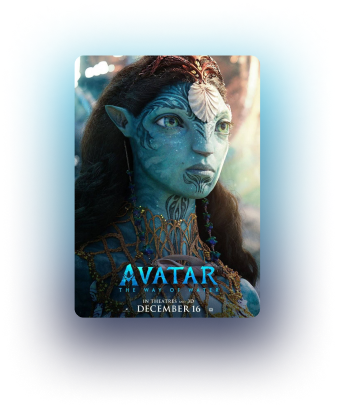
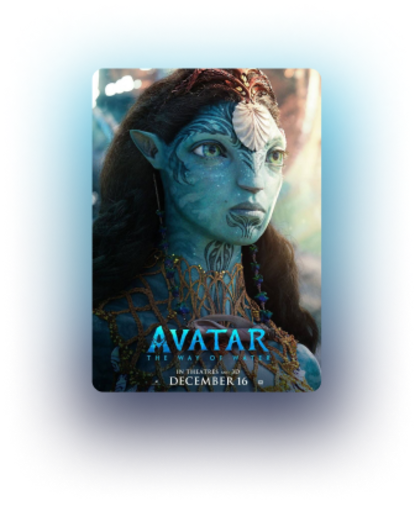
Update footer & img & title

diff --git a/src/Layout/Main/ContentMain.jsx b/src/Layout/Main/ContentMain.jsx
@@ -163,7 +163,7 @@ const ContentMain = () => {
     ]
   }
   return (
-    <div className="bg-[#040714] rounded-lg xl:mx-16 lg:mx-12 md:mx-5 mx-3 xl:mt-28 lg:mt-10 mt-3 ">
+    <div className="bg-[#040714] rounded-lg xl:mx-16 lg:mx-12 md:mx-5 mx-3 xl:mt-28 lg:mt-10 mt-3 overflow-hidden ">
       {/* Start bar */}
       <div className="xl:ml-20 lg:ml-10 md:ml-8 carousel-wrapper xl:mb-20 lg:mb-16 md:mb-12 mb-8 xl:mx-10 lg:mx-8 md:mx-6 sm:mx-4 mx-2 icon pt-7">
         <Slider {...settingsicon}>
@@ -210,7 +210,7 @@ const ContentMain = () => {
       {/* End bar */}
 
       {/* Start video */}
-      <div className="xl:ml-20 lg:ml-10 md:ml-8 carousel-wrapper xl:mb-20 lg:mb-16 md:mb-12 xl:mx-10 lg:mx-8 md:mx-6 sm:mx-4 mx-2">
+      {/* <div className="xl:ml-20 lg:ml-10 md:ml-8 carousel-wrapper xl:mb-20 lg:mb-16 md:mb-12 xl:mx-10 lg:mx-8 md:mx-6 sm:mx-4 mx-2">
         <h4 className="text-white xl:text-4xl lg:text-3xl md:text-3xl text-xl font-bold xl:mb-8 lg:mb-5 md:mb-4 mb-3">
           Continue Watching
         </h4>
@@ -227,7 +227,7 @@ const ContentMain = () => {
             </div>
           ))}
         </Slider>
-      </div>
+      </div> */}
       {/* End video */}
 
       {/* Start movies */}
@@ -238,13 +238,13 @@ const ContentMain = () => {
         <Slider {...settings}>
           {movies.map(movie => (
             <div
-              className=" before: self-center xl:h-[300px] lg:h[250px] md:h-[200px] h-[140px] hover:scale-110 transition-transform z-10 relative group"
+              className=" before: self-center xl:h-[320px] lg:h[250px] md:h-[200px] h-[140px] hover:scale-110 transition-transform z-10 relative group"
               key={movie.id}
             >
               <img src={movie.image} className=" rounded-lg w-full h-full object-cover" alt={`movie-${movie.id}`} />
               <div className="absolute inset-0 flex flex-col items-center justify-center bg-black bg-opacity-50 text-white opacity-0 group-hover:opacity-100">
-                <div className="animate-slideIn mb-2 font-bold">{movie.title}</div>
-                <div className="animate-slideIn">{movie.time}</div>
+                <div className="animate-slideIn mb-2 font-bold xl:text-base lg:text-base text-[8px]">{movie.title}</div>
+                <div className="animate-slideIn xl:text-base lg:text-base text-[6px]">{movie.time}</div>
               </div>
             </div>
           ))}
@@ -253,20 +253,20 @@ const ContentMain = () => {
       {/* End movies */}
 
       {/* Start series */}
-      <div className="xl:ml-20 lg:ml-10 md:ml-8 carousel-wrapper xl:mb- lg:mb-16 md:mb-12 xl:mx-10 lg:mx-8 md:mx-6 sm:mx-4 mx-2">
+      <div className="xl:ml-20 lg:ml-10 md:ml-8 carousel-wrapper xl:mb- lg:mb-16 md:mb-12 mb-2 xl:mx-10 lg:mx-8 md:mx-6 sm:mx-4 mx-2 z-10">
         <h4 className="text-white xl:text-4xl lg:text-3xl md:text-3xl text-xl font-bold xl:mb-8 lg:mb-5 md:mb-4 mb-3">
           Series
         </h4>
         <Slider {...settings}>
           {series.map(serie => (
             <div
-              className=" self-center xl:h-[300px] lg:h[250px] md:h-[200px] h-[140px] hover:scale-110 transition-transform z-10 relative group"
+              className=" self-center xl:h-[320px] lg:h[250px] md:h-[200px] h-[140px] hover:scale-110 transition-transform z-10 relative group"
               key={serie.id}
             >
               <img src={serie.image} className=" rounded-lg w-full h-full object-cover" alt={`serie-${serie.id}`} />
               <div className="absolute inset-0 flex flex-col items-center justify-center bg-black bg-opacity-50 text-white opacity-0 group-hover:opacity-100">
-                <div className="animate-slideIn mb-2 font-bold">{serie.title}</div>
-                <div className="animate-slideIn">{serie.time}</div>
+                <div className="animate-slideIn mb-2 font-bold xl:text-base lg:text-base text-[8px]">{serie.title}</div>
+                <div className="animate-slideIn xl:text-base lg:text-base text-[6px]">{serie.time}</div>
               </div>
             </div>
           ))}
@@ -275,38 +275,46 @@ const ContentMain = () => {
       {/* End series */}
 
       {/* Start banner content */}
-      <div className=" relative mb-20 ">
-        <div className="absolute -inset-7 bg-gradient-to-r from-[#4c6aa7] to-[#772462] rounded-lg blur-2xl opacity-95 w-[94%] mx-auto"></div>
+      <div className=" relative xl:mb-20 mb-6 -z-0 ">
+        <div className="absolute -inset-7 bg-gradient-to-r from-[#4c6aa7] to-[#772462] rounded-lg blur-2xl opacity-95 w-[94%] lg:top-2 lg:h-[98%] h-[94%] top-2 mx-auto"></div>
         <div
-          className=" lg:flex md:block sm:block block xl:gap-10 lg:gap-2 md:gap-8 lg:mx-12 md:mx-8 sm:mx-4 mx-2 rounded-3xl  bg-gradient-to-r from-banner1 to-banner2
-       relative  overflow-hidden xl:h-[650px] lg:h-[550px]  md:h-[1250px] h-[700px] sm:h-[1000px]"
+          className=" lg:flex flex xl:gap-10 lg:gap-2 md:gap-8 lg:mx-12 md:mx-8 sm:mx-4 mx-2 xl:rounded-3xl lg:rounded-3xl rounded-md bg-gradient-to-r from-banner1 to-banner2
+       relative  overflow-hidden xl:h-[650px] lg:h-[540px]  h-[200px] "
         >
           <div className="xl:p-12 basis-3/5 lg:p-4 md:p-8 sm:p-5 p-1 z-10 relative">
             <div className=" xl:block lg:block md:hidden sm:hidden hidden  circlePosition w-[450px] h-[350px]  rounded-full absolute -bottom-32 -left-32 blur-[60px] -z-10"></div>
-            <h1 className=" leading-8 xl:text-7xl lg:text-6xl  md:text-4xl sm:text-4xl text-[35px] text-white font-bold lg:mb-10 md:mb-8 sm:mb-7 md-5">
+            <h1 className="xl:leading-tight xl:text-7xl lg:text-6xl text-[22px] text-white font-bold lg:mb-10 md:mb-8 sm:mb-7 mb-5 header">
               Suggest what to see in the evening
             </h1>
-            <div className="flex gap-10 absolute bottom-20">
-              <div className="flex gap-2 bg-[#3E394D] opacity-70 px-6 py-2 rounded-lg justify-center text-white border-2">
-                <img src="../../assets/img/icon/thinking.png" alt="" />
-                <h3 className="my-auto text-xl">Mood</h3>
+            <div className="flex xl:gap-10 gap-2 absolute xl:bottom-20 lg:bottom-20 bottom-3 ">
+              <div className="flex xl:gap-2 lg:gap-2 gap-1 bg-[#3E394D] opacity-70 xl:px-6 xl:py-2 px-1 py-0 rounded-lg justify-center text-white border-2 button-banner">
+                <img className="imgbanner" src="../../assets/img/icon/thinking.png" alt="" />
+                <h3 className="my-auto xl:text-xl lg:text-xl text-[10px]">Mood</h3>
                 <BsChevronDown className="my-auto"></BsChevronDown>
               </div>
-              <div className="flex gap-2 bg-[#3E394D] opacity-70 px-6 py-2 rounded-lg justify-center text-white border-2">
-                <img src="../../assets/img/icon/friends.png" alt="" />
-                <h3 className="my-auto text-xl">With somebody</h3>
+              <div className="flex xl:gap-2 lg:gap-2 gap-1 bg-[#3E394D] opacity-70 xl:px-6 xl:py-2 px-3 py-0 rounded-lg justify-center text-white border-2 button-banner">
+                <img className="imgbanner" src="../../assets/img/icon/friends.png" alt="" />
+                <h3 className="my-auto xl:text-xl lg:text-xl text-[10px]">With somebody</h3>
                 <BsChevronDown className="my-auto"></BsChevronDown>
               </div>
             </div>
           </div>
-          <div className=" basis-2/5 grid grid-cols-2 z-0 gap-7 lg:gap-3 relative ">
+          <div className=" basis-2/5 grid grid-cols-2 z-0 xl:gap-7 gap-2 lg:gap-3 relative banner ">
             <div className="z-10">
-              <img className=" rounded-2xl mb-7" src="../../assets/img/conjuring-3.webp" alt="" />
-              <img className=" rounded-2xl" src="../../assets/img/ave.jpeg" alt="" />
+              <img
+                className=" xl:rounded-2xl lg:rounded-2xl rounded-md xl:mb-7 mb-2"
+                src="../../assets/img/conjuring-3.webp"
+                alt=""
+              />
+              <img className=" xl:rounded-2xl lg:rounded-2xl rounded-md" src="../../assets/img/ave.jpeg" alt="" />
             </div>
             <div className="z-10">
-              <img className=" rounded-2xl mb-7" src="../../assets/img/fate-the-winx-saga.jpg" alt="" />
-              <img className=" rounded-2xl" src="../../assets/img/behom.jpg" alt="" />
+              <img
+                className=" xl:rounded-2xl lg:rounded-2xl rounded-md xl:mb-7 mb-2"
+                src="../../assets/img/fate-the-winx-saga.jpg"
+                alt=""
+              />
+              <img className=" xl:rounded-2xl lg:rounded-2xl rounded-md" src="../../assets/img/behom.jpg" alt="" />
             </div>
             <div className=" circlePosition w-[250px] h-[500px] bg-[#24324F] rounded-full absolute lg:top-0 lg:-left-32 -top-36 -right-36  lg:blur-[40px] blur-[20px] z-0"></div>
             <div className=" circlePosition w-[550px] h-[450px] bg-[#440F37] rounded-full absolute -bottom-32 -left-48 blur-[70px] z-0"></div>
@@ -323,7 +331,7 @@ const ContentMain = () => {
         <Slider {...settings}>
           {cartoons.map(cartoon => (
             <div
-              className=" self-center xl:h-[300px] lg:h[250px] md:h-[200px] h-[140px] hover:scale-110 transition-transform z-10 w-2/3 relative group"
+              className=" self-center xl:h-[320px] lg:h[250px] md:h-[200px] h-[140px] hover:scale-110 transition-transform z-10 w-2/3 relative group"
               key={cartoon.id}
             >
               <img
@@ -332,8 +340,10 @@ const ContentMain = () => {
                 alt={`cartoon-${cartoon.id}`}
               />
               <div className="absolute inset-0 flex flex-col items-center justify-center bg-black bg-opacity-50 text-white opacity-0 group-hover:opacity-100">
-                <div className="animate-slideIn mb-2 font-bold">{cartoon.title}</div>
-                <div className="animate-slideIn">{cartoon.time}</div>
+                <div className="animate-slideIn mb-2 font-bold xl:text-base lg:text-base text-[8px]">
+                  {cartoon.title}
+                </div>
+                <div className="animate-slideIn xl:text-base lg:text-base text-[6px]">{cartoon.time}</div>
               </div>
             </div>
           ))}
@@ -349,23 +359,22 @@ const ContentMain = () => {
         <Slider {...settingsweekly}>
           {weeklytops.map(weeklytop => (
             <div
-              className=" self-center xl:h-[300px] lg:h[250px] md:h-[200px] h-[140px] hover:scale-110 transition-transform z-10  relative group"
+              className=" self-center xl:h-[350px] lg:h[250px] md:h-[200px] h-[140px] hover:scale-110 transition-transform z-10 mb-2  relative group"
               key={weeklytop.id}
             >
-              <div>
-                <img
-                  src={weeklytop.image}
-                  className=" rounded-lg w-full h-full object-cover "
-                  alt={`weeklytop-${weeklytop.id}`}
-                />
-                <div className="absolute inset-0 flex flex-col items-center justify-center bg-black bg-opacity-50 text-white opacity-0 group-hover:opacity-100">
-                  <div className="animate-slideIn mb-2 font-bold">{weeklytop.title}</div>
-                  <div className="animate-slideIn">{weeklytop.time}</div>
-                </div>
-              </div>
+              <img
+                src={weeklytop.image}
+                className=" rounded-lg w-full h-full object-cover "
+                alt={`weeklytop-${weeklytop.id}`}
+              />
+              {/* <div className="absolute inset-0 flex flex-col items-center justify-center bg-black bg-opacity-50 text-white opacity-0 group-hover:opacity-100">
+                  <div className="animate-slideIn mb-2 font-bold xl:text-base lg:text-base text-[8px]">{weeklytop.title}</div>
+                  <div className="animate-slideIn xl:text-base lg:text-base text-[6px]">{weeklytop.time}</div>
+                </div> */}
+
               <p
-                className="text-[#868E9A] absolute xl:text-[250px] lg:text-[170px] md:text-[150px] sm:text-[110px] text-7xl font-bold 
-              xl:top-20 xl:-right-16 lg:top-12 md:-bottom-5 md:-right-10 sm:-bottom-5 sm:-right-6 -right-4 -bottom-3"
+                className="text-[#868E9A] absolute xl:text-[230px] lg:text-[170px] text-7xl font-bold 
+              xl:top-[150px] xl:-right-16 lg:top-12 md:-bottom-5 md:-right-10 sm:-bottom-5 sm:-right-6 -right-4 -bottom-3"
               >
                 {weeklytop.about}
               </p>
@@ -374,10 +383,11 @@ const ContentMain = () => {
         </Slider>
       </div>
       {/* End weekly top */}
-      <div className=" flex gap-2 xl:mx-10 lg:mx-8 md:mx-6 sm:mx-4 mx-2 xl:ml-20 lg:ml-10 md:ml-8">
-        <img src="../../assets/img/mainpage/1.png" alt="" />
-        <img src="../../assets/img/mainpage/2.png" alt="" />
-        <img src="../../assets/img/mainpage/3.png" alt="" />
+      <div className=" flex gap-2  image-container relative xl:mx-20 mx-3">
+        <img className="z-10" src="../../assets/img/mainpage/1.png" alt="" />
+        <img className="z-10" src="../../assets/img/mainpage/2.png" alt="" />
+        <img className="z-10" src="../../assets/img/mainpage/3.png" alt="" />
+        <div className="absolute -inset-7 bg-gradient-to-r from-[#4c6aa7] to-[#772462] rounded-lg blur-xl opacity-95 xl:w-[100%] w-[100%] lg:w-[100%]  xl:h-[84%] lg:h-[84%] h-[75%] xl:top-[9%] top-[10%] left-0 mx-auto"></div>
       </div>
     </div>
   )

diff --git a/src/Layout/Home/ContentHome.jsx b/src/Layout/Home/ContentHome.jsx
@@ -14,13 +14,13 @@ const ContentHome = () => {
           <h3 className=" xl:text-4xl lg:text-3xl md:text-2xl sm:textxl text-base  text-white font-bold ">
             All news in one place
           </h3>
-          <h4 className=" xl:text-text lg:text-xl md:text-xl sm:text-lg text-[10px] text-white lg:mt-16 md:mt-9 sm:mt-6 mt-4 lg:mb-6 md:mb-4 sm:mb-2 mb-1">
+          <h4 className=" xl:text-text lg:text-xl md:text-xl sm:text-lg text-[10px] text-white lg:mt-16 md:mt-9 sm:mt-6 mt-4 lg:mb-6 md:mb-4 sm:mb-2 mb-2">
             Ready to watch ? Enter your phone number to register
           </h4>
           <div className="lg:flex table-caption gap-5">
             <input
               className=" bg-black xl:p-3 lg:p-2 md:p-2 sm:p-2 p-2 border rounded-md xl:py-4 lg:py-0 md:py-3 sm:py-2 py-2 xl:pr-52 lg:pr-16 md:pr-40 sm:pr-32 pr-16 xl:text-xl lg:text-base 
-              md:text-lg sm:text-base text-sm  lg:mb-0 md:mb-4 sm:mb-2 mb-2 text-white"
+              md:text-lg sm:text-base text-sm  lg:mb-0 md:mb-4 sm:mb-2 mb-3 text-white"
               type="text"
               name=""
               id=""
@@ -35,7 +35,7 @@ const ContentHome = () => {
             </NavLink>
           </div>
         </div>
-        <div className=" basis-2/5 grid grid-cols-2 z-0 gap-7 lg:gap-3 relative ">
+        <div className=" basis-2/5 grid grid-cols-2 z-0 gap-7 lg:gap-3 relative xl:-mt-2 mt-2 ">
           <div className="z-10">
             <img className=" rounded-2xl mb-7" src="../../assets/img/conjuring-3.webp" alt="" />
             <img className=" rounded-2xl" src="../../assets/img/ave.jpeg" alt="" />

diff --git a/src/Layout/Main/Main.css b/src/Layout/Main/Main.css
@@ -95,6 +95,17 @@
   background-color: #989a9d;
   border-radius: 6px;
 }
+.image-container {
+  display: flex;
+  padding-bottom: 60px;
+}
+
+.image-container img {
+  flex: 1;
+  object-fit: cover;
+  height: auto;
+  max-width: 100%;
+}
 @media only screen and (max-width: 768px) {
   .weeklytop .slick-slider .slick-list .slick-track .slick-slide {
     margin-right: 20px !important;
@@ -143,6 +154,7 @@
     padding: 8px 21px;
     color: white;
     background-color: #989a9d;
+
     border-radius: 6px;
   }
   .swiper-button-next:after {
@@ -150,6 +162,27 @@
   }
   .swiper-button-prev:after {
     font-size: 35px;
+  }
+  .imgbanner {
+    margin: auto;
+    height: 40%;
+    width: 40%;
+  }
+  .button-banner {
+    /* padding: 5px;
+    height: fit-content; */
+  }
+  .header {
+    margin: 20px 0;
+    padding: 00px 0 0 10px;
+  }
+  .banner img {
+    max-width: none;
+    width: 71px;
+  }
+  .image-container {
+    display: flex;
+    padding-bottom: 30px;
   }
 }
 @keyframes slideIn {

diff --git a/src/Layout/Main/NavigationMain.jsx b/src/Layout/Main/NavigationMain.jsx
@@ -6,12 +6,12 @@ import { CiMenuFries } from "react-icons/ci"
 import { NavLink } from "react-router-dom"
 // eslint-disable-next-line react/prop-types, no-unused-vars
 const Navigation = ({ language, onLanguageChange }) => {
-  const countries = [
-    { name: "E", independent: false },
-    { name: "V", independent: false },
-    { name: "C", independent: false }
-  ]
-  const [inputValue, setInputValue] = useState("")
+  // const countries = [
+  //   { name: "E", independent: false },
+  //   { name: "V", independent: false },
+  //   { name: "C", independent: false }
+  // ]
+  // const [inputValue, setInputValue] = useState("")
   const [selected, setSelected] = useState(language)
   const [open, setOpen] = useState(false)
   const handleLanguageChange = selected => {

diff --git a/src/Layout/Main/BannerMain.jsx b/src/Layout/Main/BannerMain.jsx
@@ -66,9 +66,7 @@ const BannerMain = () => {
           <img src="../../assets/img/mainpage/banner/old.png" alt="slide_image" />
         </SwiperSlide>
         <SwiperSlide className="w-fit ">
-          <div className="large-slide">
-            <img src="../../assets/img/mainpage/banner/avatar.png" alt="slide_image" />
-          </div>
+          <img src="../../assets/img/mainpage/banner/old.png" alt="slide_image" />
         </SwiperSlide>
         <SwiperSlide className="w-fit">
           <img src="../../assets/img/mainpage/banner/old.png" alt="slide_image" />
